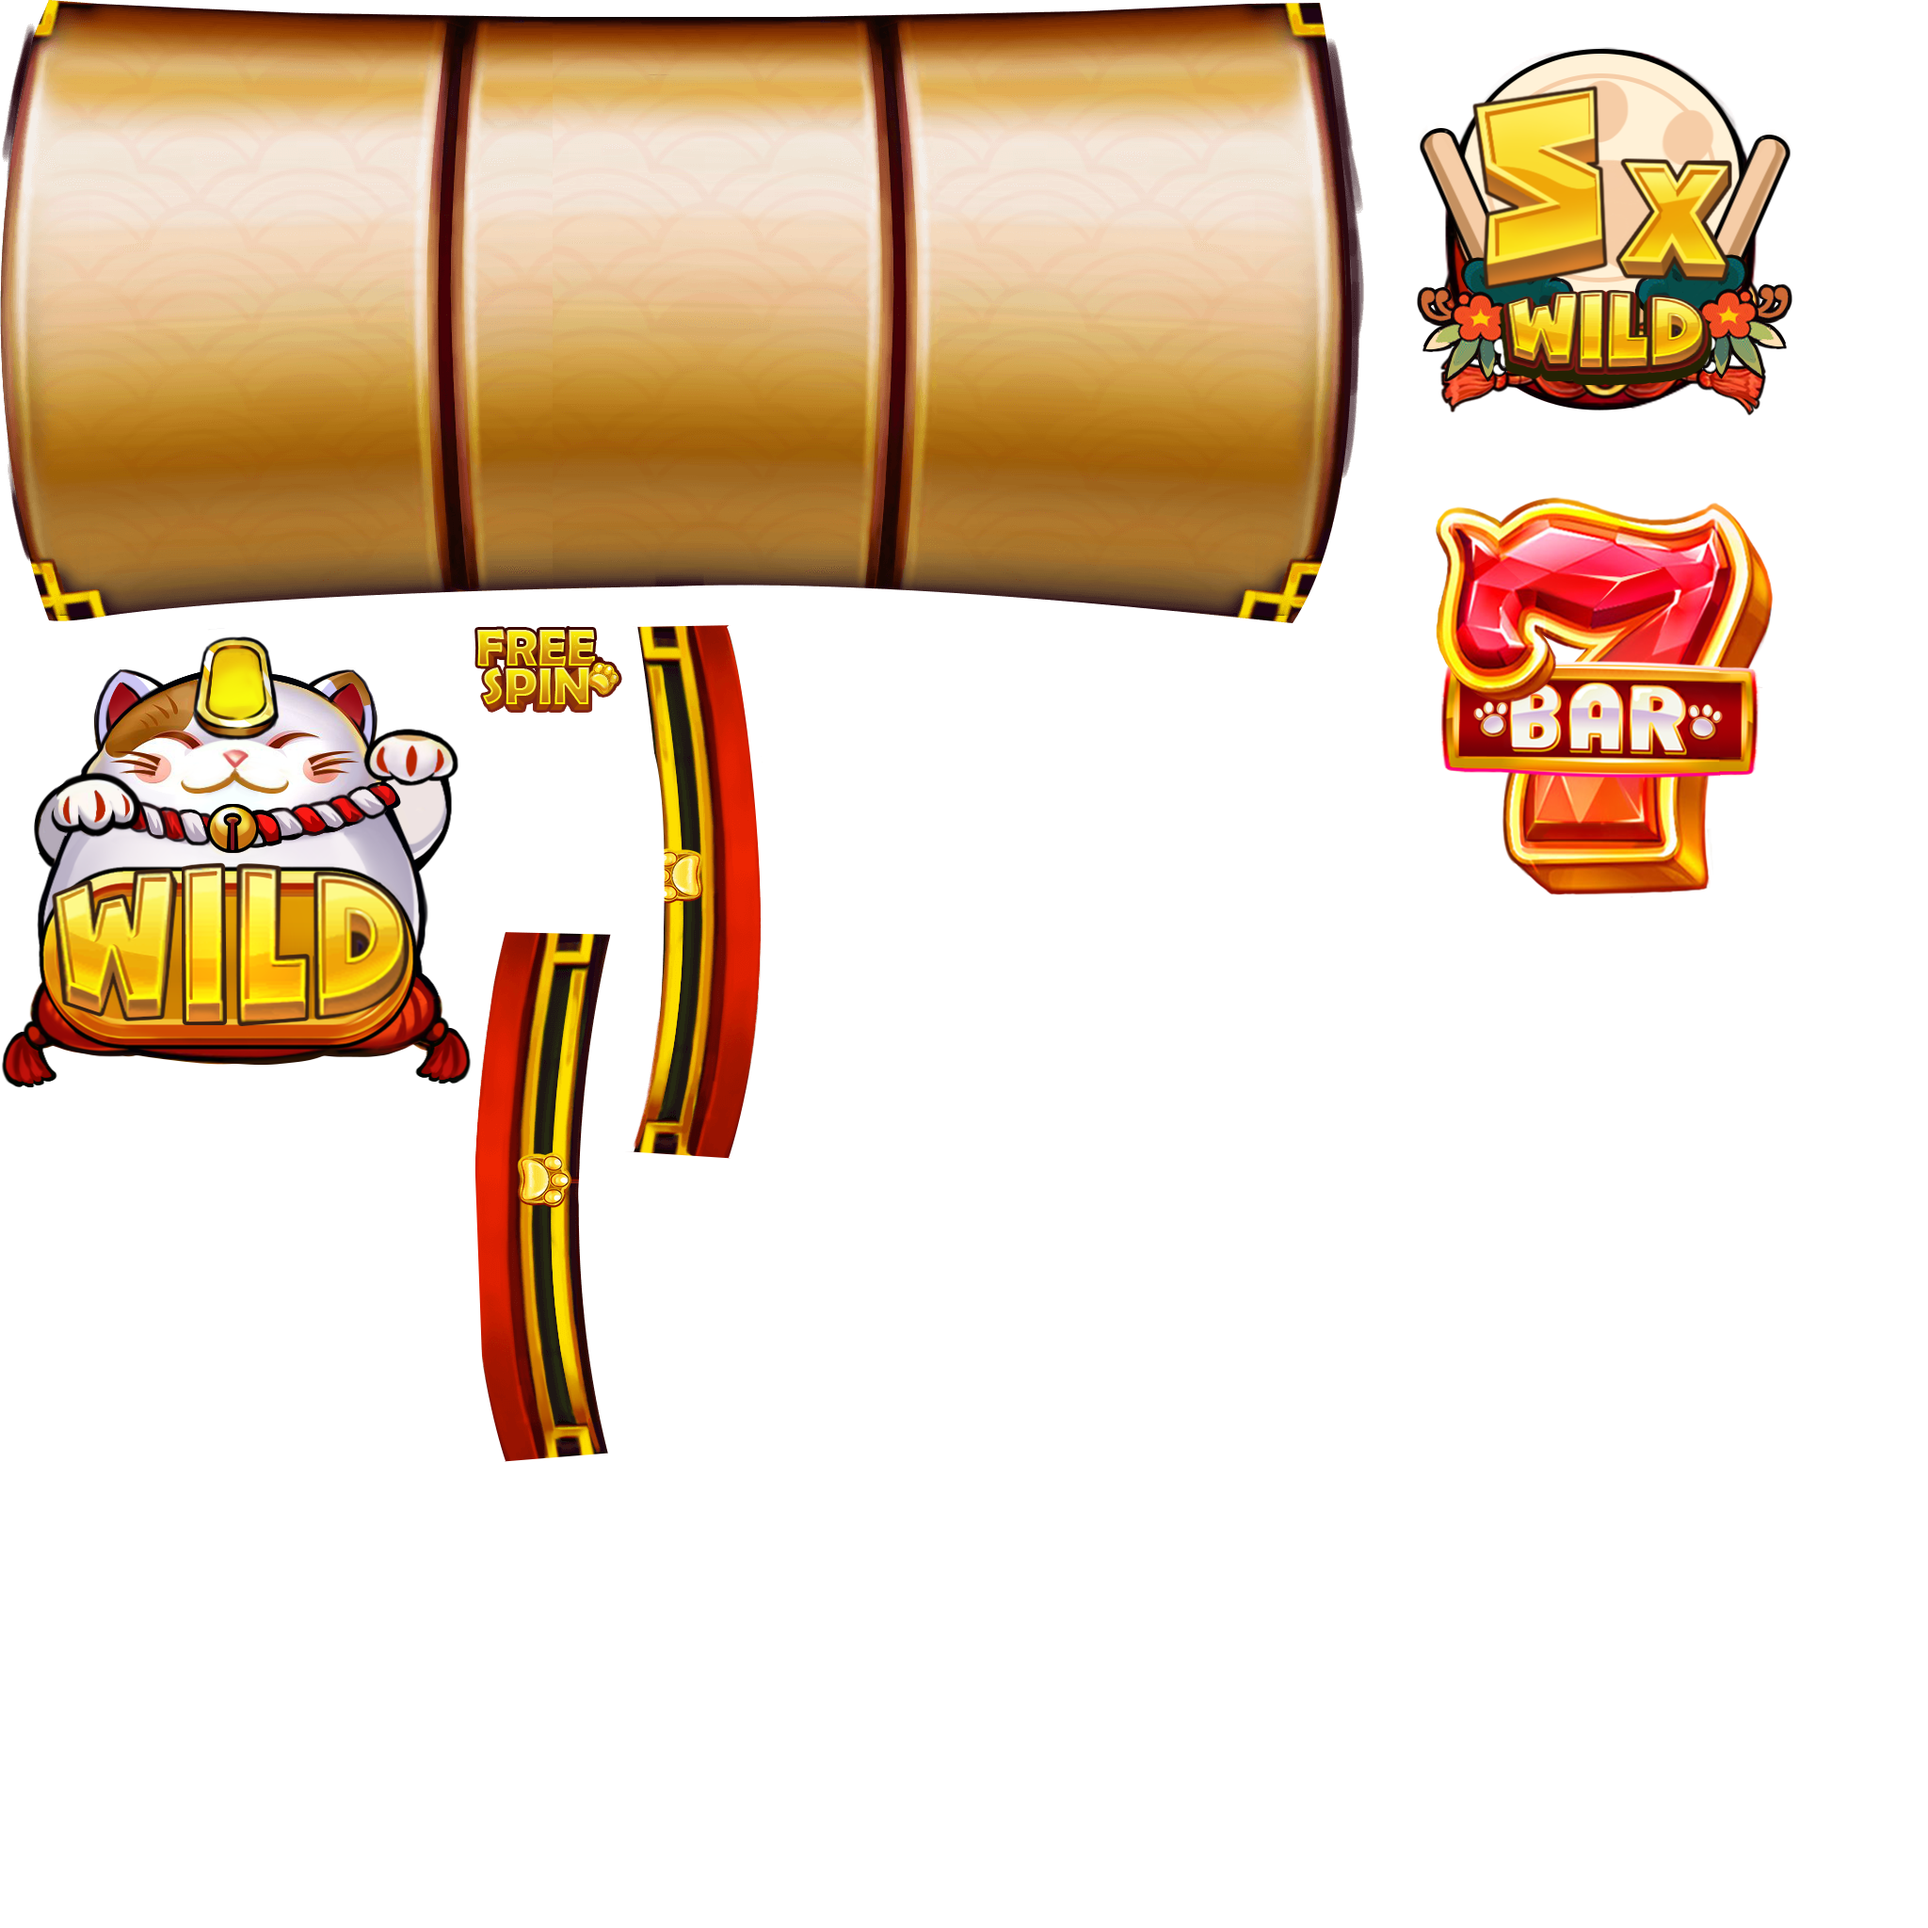
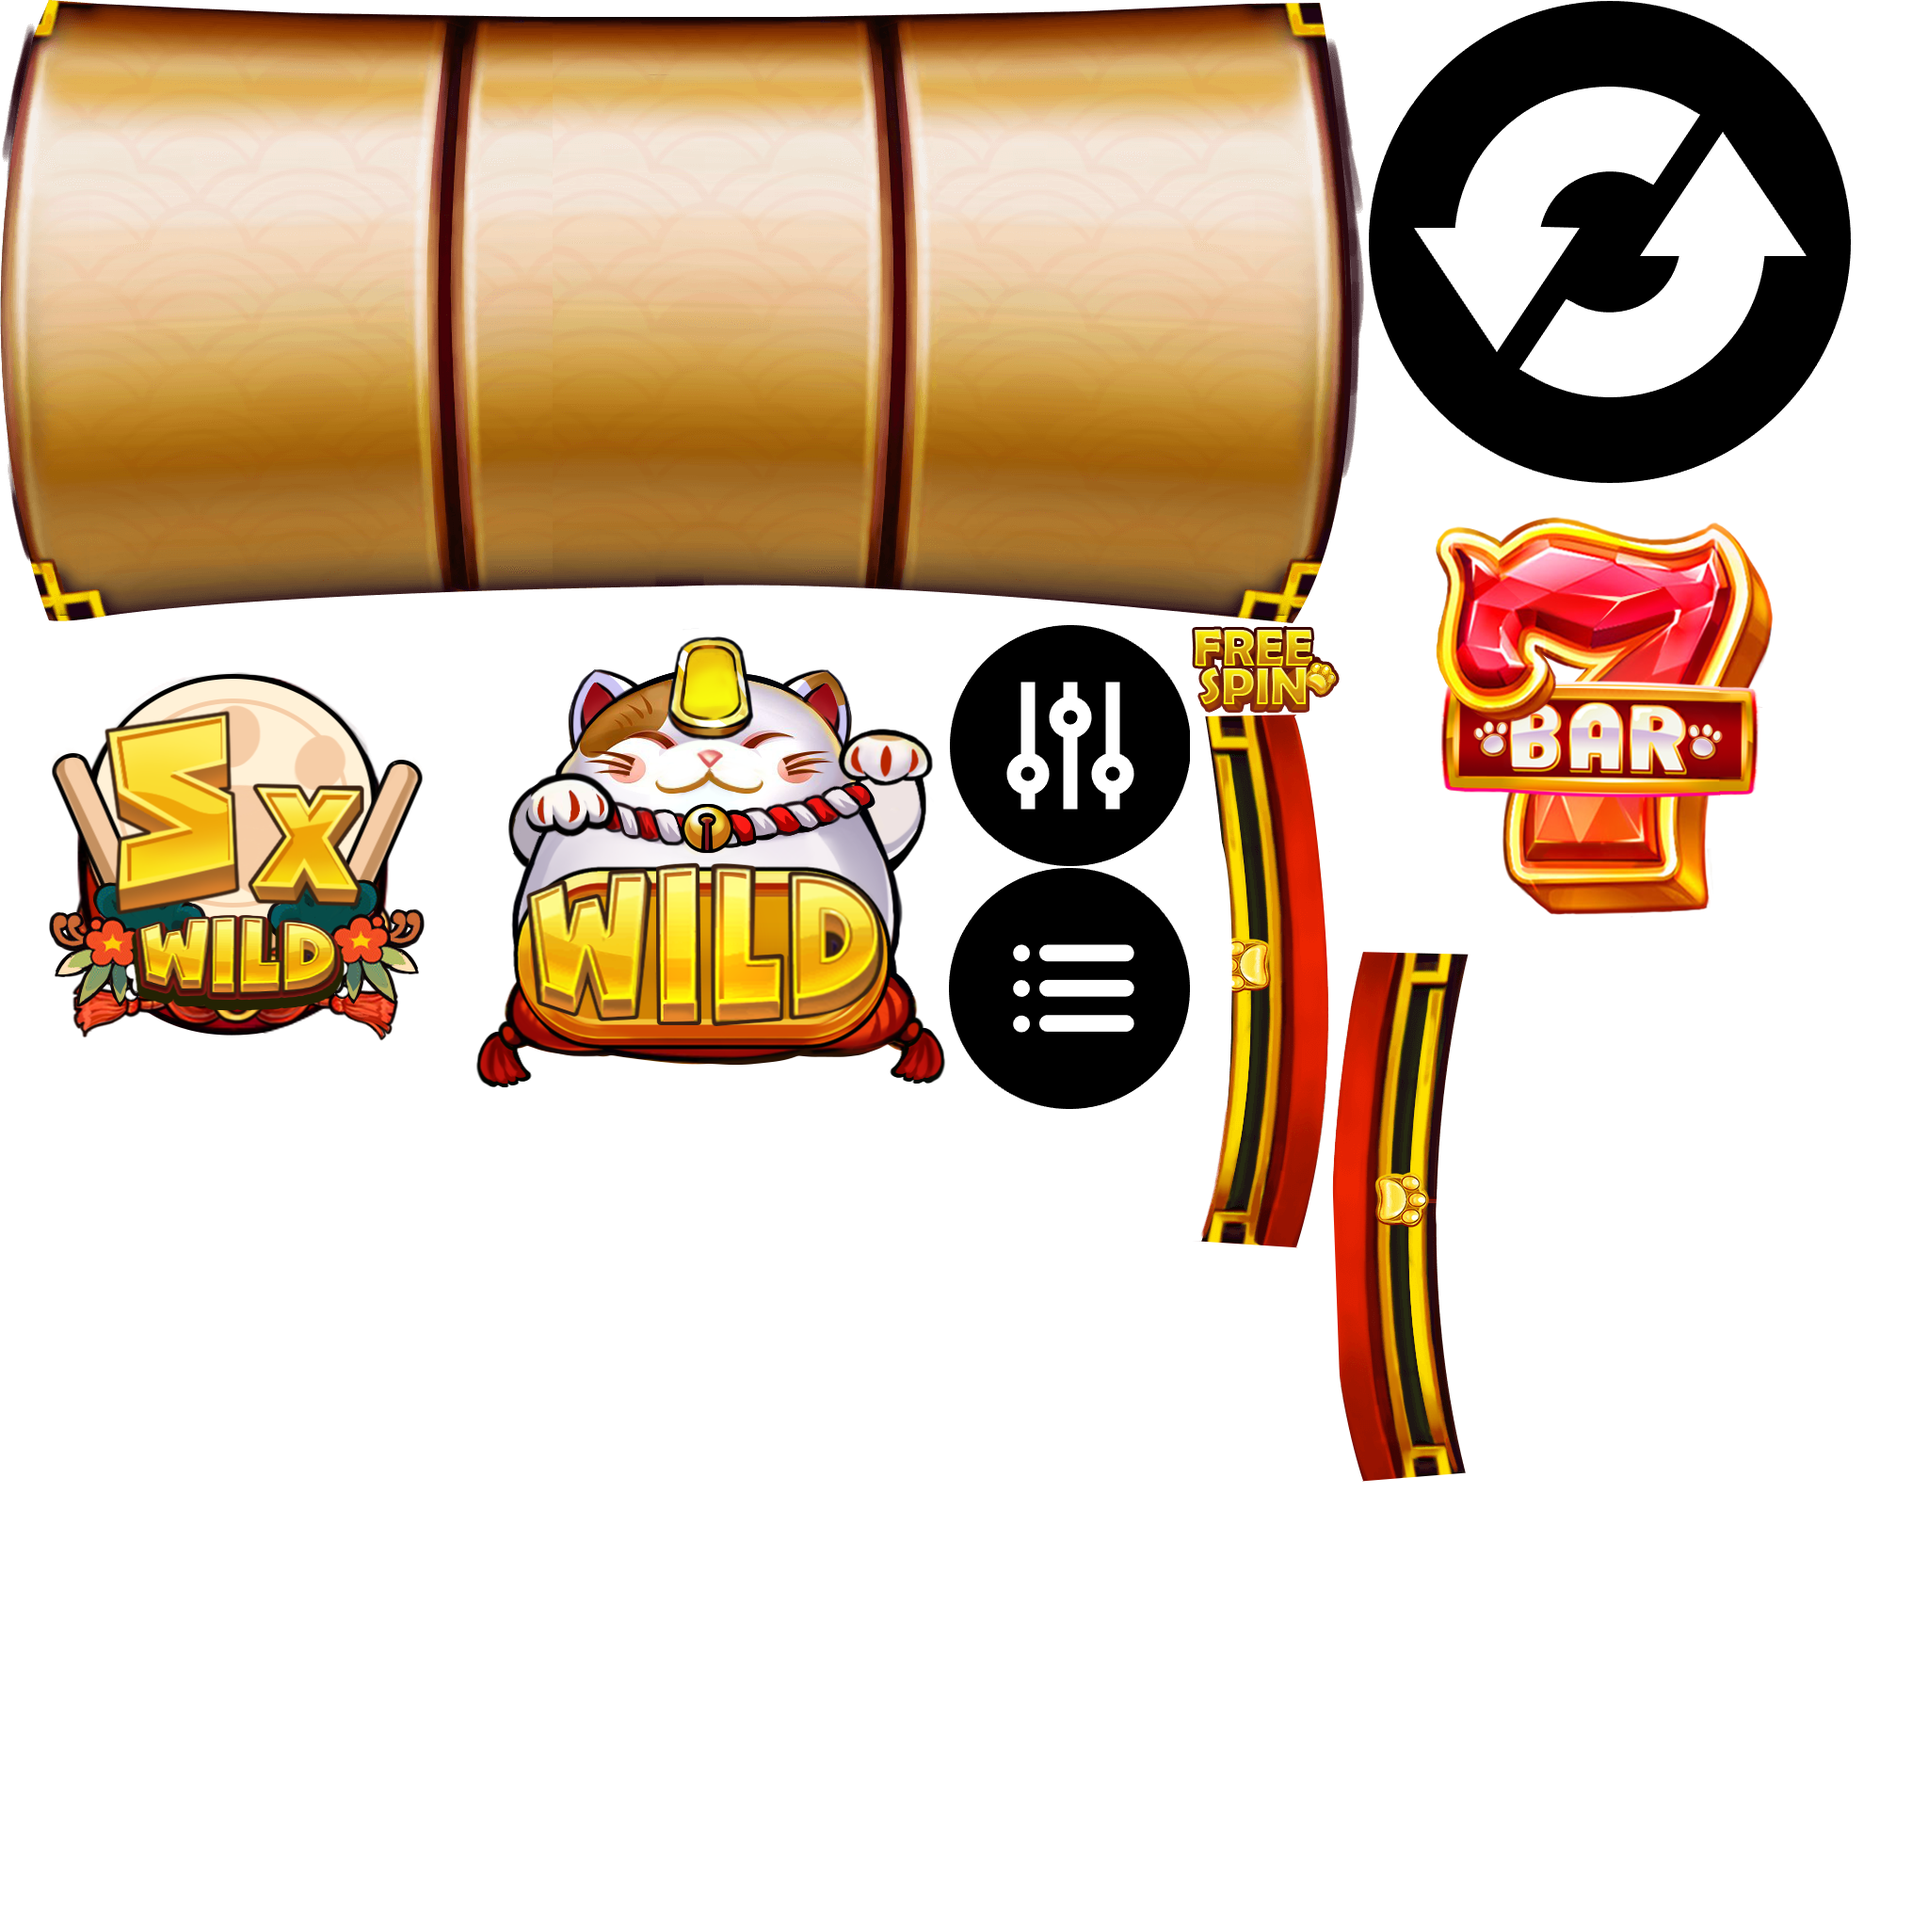
Fixed Verticle Center

Changed region(s): [[0.0, 0.3125, 0.7812, 0.7812], [0.6875, 0.0, 0.9688, 0.5]]

diff --git a/src/scenes/main/scene.js b/src/scenes/main/scene.js
@@ -6,6 +6,7 @@ import {config} from './data';
 import {addPackage} from 'pixi_fairygui';
 
 import {SlotMachine} from '../../components/game/slot/slot';
+import {Button} from '../../components/game/common/Button';
 
 export function reserve() {
     return [
@@ -30,5 +31,18 @@ export function create() {
 
     const slot = SlotMachine(slotBaseView, config);
 
+    const {spinButton} = UserInterface(scene.getChildByName('UserInterface'));
+
+    spinButton.on('spin', slot.play);
+
     window.play = slot.play;
+}
+
+function UserInterface(view) {
+    const spinButton =
+        Button(view.getChildByName('SpinButton'));
+
+    spinButton.on('pointerdown', () => spinButton.emit('spin'));
+
+    return {spinButton};
 }

diff --git a/src/utils/styles/default.scss b/src/utils/styles/default.scss
@@ -18,6 +18,13 @@ $black: #010101;
   display: none;
 }
 
+.v-center {
+  @include full-size;
+
+  display: flex;
+  align-items: center;
+}
+
 //  Default =====================================
 html, body {
   @include full-size;

diff --git a/base/index.html b/base/index.html
@@ -11,6 +11,10 @@
     <title></title>
 </head>
 <body>
-<div id="app"></div>
+
+<div class="v-center">
+    <div id="app"></div>
+</div>
+
 </body>
 </html>
